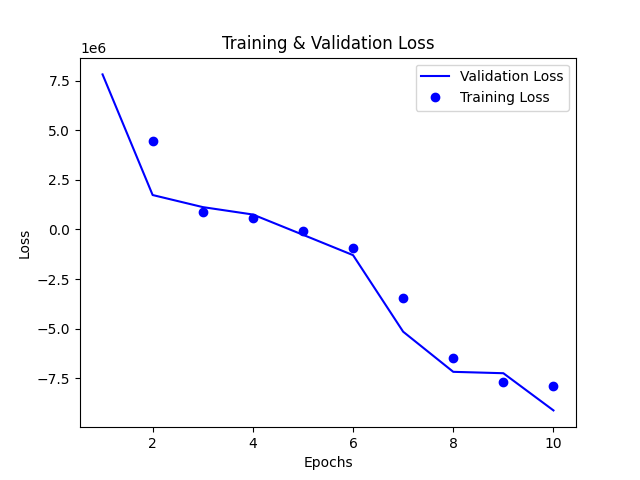
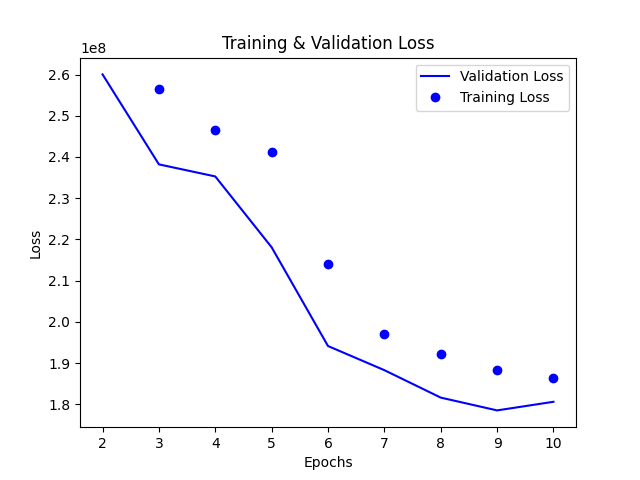
drnn train data - piano nrml & dmged power about equal, SNR sounds like Brahms

diff --git a/brahms_restore_ml/drnn/data.py b/brahms_restore_ml/drnn/data.py
@@ -153,7 +153,7 @@ def preprocess_signals(piano_sig, noise_sig, min_sig_len, mix_sig=None,
         # Mix & vary SNR
         src_percent_1 = random.randrange(int(src_amp_low*100), int(src_amp_high*100)) / 100
         # New fix - get piano on level of recording's piano by ear
-        piano_sig *= 2
+        piano_sig *= 1.5
         # New fix - only change SNR of noise_sig, piano_sig remains constant - b/c power sounds same as brahms.wav piano
         # src_percent_2 = 1 / src_percent_1
         # # print('src 1 percent:', src_percent_1, 'src 2 percent:', src_percent_2)
@@ -169,8 +169,11 @@ def preprocess_signals(piano_sig, noise_sig, min_sig_len, mix_sig=None,
         #         dmged_piano_sig *= src_percent_2
         noise_sig *= src_percent_1
         if dmged_piano_sig is not None:
+            # New fix - get piano on level of recording's piano by ear
+            dmged_piano_sig *= 2
             # avg_src_sum = (np.sum(np.abs(dmged_piano_sig)) + np.sum(np.abs(noise_sig))) / 2
             mix_sig = dmged_piano_sig + noise_sig
+            print('DMG PIANO MAX VAL:', np.amax(np.abs(dmged_piano_sig)), 'NOISE MAX VAL:', np.amax(np.abs(noise_sig)))
         else:
             # avg_src_sum = (np.sum(np.abs(piano_sig)) + np.sum(np.abs(noise_sig))) / 2
             mix_sig = piano_sig + noise_sig
@@ -221,7 +224,7 @@ def signal_to_nn_features(signal, use_bv=False, wdw_size=PIANO_WDW_SIZE, epsilon
 # Changed                     x_files ignored
 def nn_data_generator(y1_files, y2_files, num_samples, batch_size, num_seq, num_feat,
                         min_sig_len, dmged_piano_artificial_noise=False,
-                        src_amp_low=3, src_amp_high=6, # TEMP - experiment w/ others
+                        src_amp_low=3, src_amp_high=4, # TEMP - experiment w/ others
                         # src_amp_low=0.75, src_amp_high=1.15, 
                         data_path=None, x_files=None, from_numpy=False, bare_noise=False,    # new
                         tuned_a430hz=False, piano_basis_vectors=None, dmged_y1_files=None,

diff --git a/restore_with_drnn.py b/restore_with_drnn.py
@@ -206,7 +206,7 @@ def main():
                         ('.txt' if curr_best_done_on_pc else '_noPC.txt') for x in top_result_nums]
     # NEW
     output_file_addon = ''
-    data_from_numpy = False
+    data_from_numpy = True
     tuned_a430hz = False # may not be helpful, as of now does A=436Hz by default
     basis_vector_features = False
     if tuned_a430hz:
